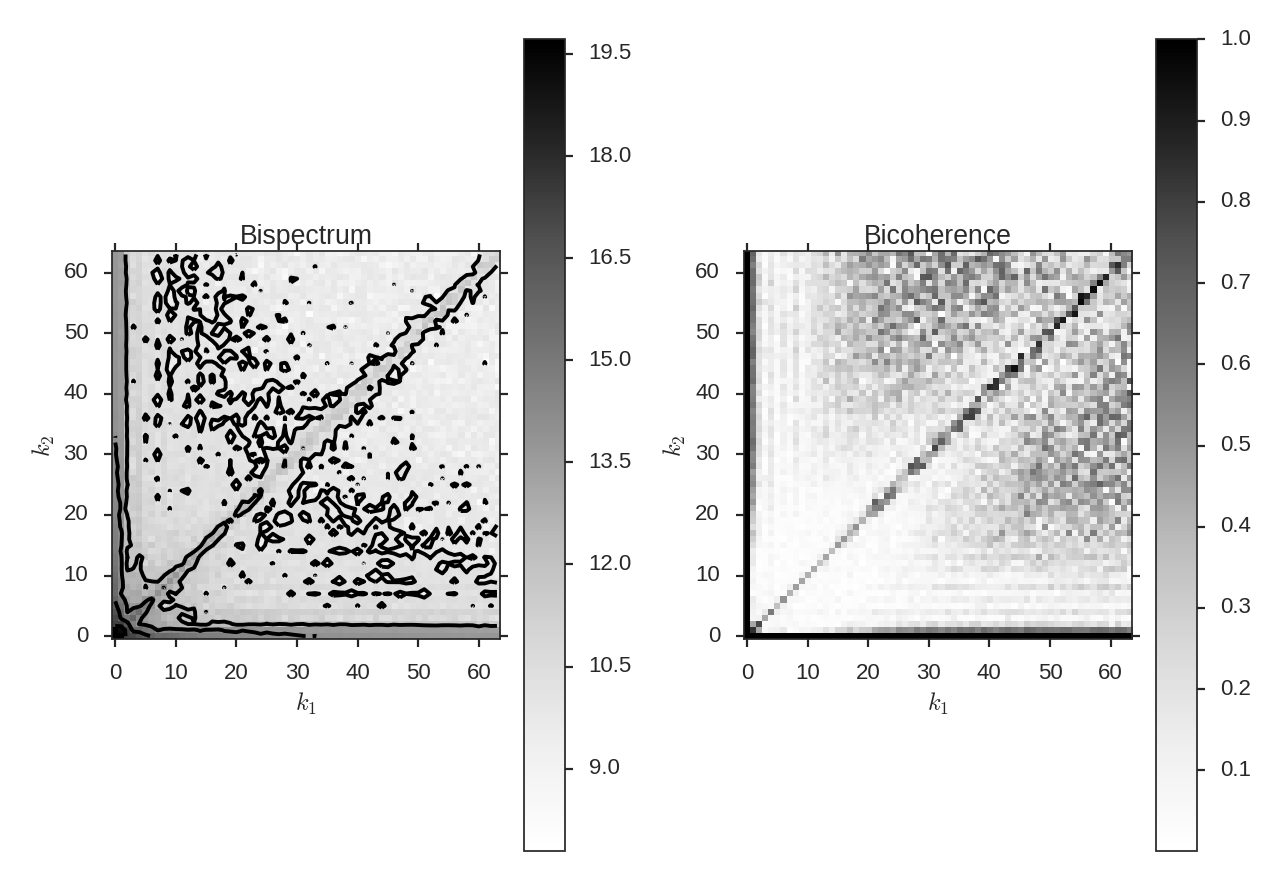
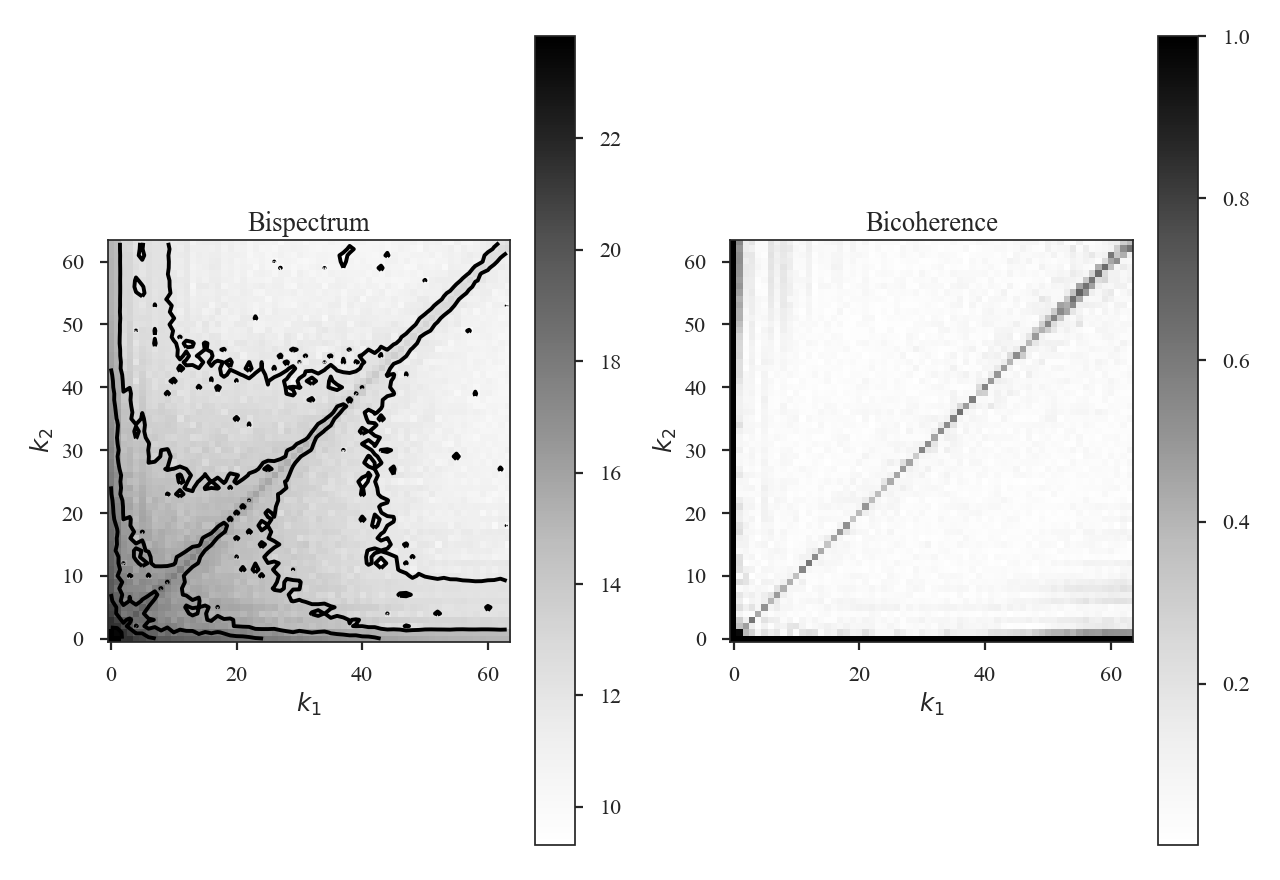
Update bispectrum tutorial

diff --git a/docs/tutorials/statistics/bispectrum_example.rst b/docs/tutorials/statistics/bispectrum_example.rst
@@ -13,7 +13,7 @@ The `bispectrum <https://en.wikipedia.org/wiki/Bispectrum>`_ is the Fourier tran
 
 where :math:`\ast` denotes the complex conjugate, :math:`F` is the Fourier transform of some signal, and :math:`k_1,\,k_2` are wavenumbers.
 
-The bispectrum retains phase information which is lost in the power spectrum, and is therefore useful for investigating phase coherence and coupling.
+The bispectrum retains phase information which is lost in the :ref:`power spectrum <pspec_tutorial>`, and is therefore useful for investigating phase coherence and coupling.
 
 The use of the bispectrum in the ISM was introduced by :ref:`Burkhart et al. 2009 <ref-burkhart2009>`, and recently extended in :ref:`Burkhart et al. 2016 <ref-burkhart2016>`.
 
@@ -43,7 +43,7 @@ We need to import the `~turbustat.statistics.BiSpectrum` code, along with a few 
 
 And we load in the data:
 
-    >>> moment0 = fits.open("Design4_21_0_0_flatrho_0021_13co.moment0.fits")[0]  # doctest: +SKIP
+    >>> moment0 = fits.open("Design4_flatrho_0021_00_radmc_moment0.fits")[0]  # doctest: +SKIP
 
 While the bispectrum can be extended to sample in N-dimensions, the current implementation requires a 2D input. In all previous work, the computation is performed on an integrated intensity or column density map.
 
@@ -53,19 +53,19 @@ First, the `~turbustat.statistics.BiSpectrum` class is initialized:
 
 The bispectrum requires only the image, not a header, so passing any arbitrary 2D array will work.
 
-The entire computation is performed through `~turbustat.statistics.BiSpectrum.run`:
+Even using a small 2D image (128x128 here), the number of possible combinations for :math:`k_1,\,k_2` is massive (the maximum value of :math:`k_1,\,k_2` is half of the largest dimension size in the image). To save time, we can randomly sample some number of *phases* for each value of :math:`k_1,\,k_2` (so :math:`k_1 + k_2`, the coupling term, changes). This is set by `nsamples`. There is shot noise associated with this random sampling, and the effect of changing `nsamples` should be tested. For this example, structure begins to become apparent with about 1000 samples. The figures here use 10000 samples to make the structure more evident. **This will take about 10 minutes to run!**
 
-    >>> bispec.run(verbose=True, nsamples=1.e3)  # doctest: +SKIP
+The computing the bispectrum and bicoherence maps is performed through `~turbustat.statistics.BiSpectrum.run`:
+
+    >>> bispec.run(verbose=True, nsamples=10000)  # doctest: +SKIP
 
 .. image:: images/bispectrum_design4.png
 
-Even in small 2D image (128x128 here), the number of possible combinations for :math:`k_1,\,k_2` is already massive (the maximum value of :math:`k_1,\,k_2` is half of the largest dimension size in the image). To minimize the computational time, we can randomly sample some number of *phases* for each value of :math:`k_1,\,k_2` (so :math:`k_1 + k_2`, the coupling term, changes). This is set by `nsamples`. There is shot noise associated with this random sampling, and so different `nsamples` should be tested. In this, structure begins to become more apparent with around 1000, and improves beyond this (at the expense of time).
+`~turbustat.statistics.BiSpectrum.run` really only performs a single step: `~turbustat.statistics.BiSpectrum.compute_bispectrum`. For this, there are two optional inputs that may be set:
 
-`~turbustat.statistics.BiSpectrum.run` is really only hiding a single step: `~turbustat.statistics.BiSpectrum.compute_bispectrum`. There are two additional inputs which may be set:
+    >>> bispec.run(nsamples=10000, mean_subtract=True, seed=4242424)  # doctest: +SKIP
 
-    >>> bispec.run(nsamples=1.e3, mean_subtract=True, seed=4242424)  # doctest: +SKIP
-
-The two additional arguments here are `seed`, to set the random seed for sampling, and `mean_subtract`, which first removes the mean from the data before computing the bispectrum. The removes the "zero frequency" power defined based on the largest scale in the image and removes much the phase coupling along the :math:`k_1 = k_2` line, highlighting the non-linear mode interactions:
+`seed` sets the random seed for the sampling, and `mean_subtract` removes the mean from the data before computing the bispectrum. This removes the "zero frequency" power defined based on the largest scale in the image that provides gives the phase coupling along :math:`k_1 = k_2` line. Removing the mean highlights the non-linear mode interactions:
 
 .. image:: images/bispectrum_w_and_wo_meansub_coherence.png
 
